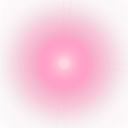
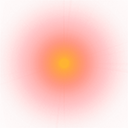
Emitter Added

Changed region(s): [[0.2188, 0.1875, 0.8125, 0.8125]]

diff --git a/PotatoGame/index.html b/PotatoGame/index.html
@@ -13,17 +13,11 @@
     <script>
 
     var config = {
-        type: Phaser.AUTO,
-        //width: window.innerWidth-30, //1200
-        //height: window.innerHeight-30, //700
         width: window.innerHeight-30, //1200
         height: window.innerHeight-30, //700
         scale: {autoCenter: Phaser.Scale.CENTER_BOTH},
         physics: {
             default: 'arcade',
-            //arcade: {
-           //     debug: true
-           // }
         },
 
         scene: {
@@ -31,8 +25,6 @@
             create: create,
            update: update,
         }
-        //scene: [SceneC]
-
     };
 
     class Player extends Phaser.Physics.Arcade.Sprite
@@ -83,6 +75,7 @@
       }
     }
 
+    //Create game obj
     var game = new Phaser.Game(config);
 
     //Game Objects
@@ -93,21 +86,24 @@
     var checkpoints = [];
     var timer;
     var timerText;
+
     //Keyboard controls
     var cursors;
     var keys;
     var space;
-    var LavaPlatform
-    var camera
-    var potato
+    var LavaPlatform;
+    var camera;
+    var potato;
 
-    var potatoPlayer1
-    var potatoPlayer2
-    var globalThis
-    var mainmenu
-    var GameOver
+    //Potato storage
+    var potatoPlayer1;
+    var potatoPlayer2;
 
-    var gameStart = false
+    //Menu requisites
+    var globalThis;
+    var mainmenu;
+    var GameOver;
+    var gameStart = false;
 
     function preload()
     {
@@ -116,7 +112,7 @@
         this.load.image('wall', 'assets/platform.png');
         this.load.image('player', 'assets/wabbit.png');
         this.load.image('lava', 'assets/lava.png');
-        this.load.image('potato', 'assets/pixelated-potato.png')
+        this.load.image('potato', 'assets/pixelated-potato.png');
         this.load.image('collapsing-platform','assets/crumble_platform.png');
         this.load.image('checkFlag', 'assets/checkpoint_flag_solidred.png');
         this.load.image('checkFlag2', 'assets/checkpoint_flag_solidgreen.png');
@@ -126,6 +122,7 @@
         this.load.image('ground', 'assets/ground.png');
         this.load.image('pillar', 'assets/pillar.png');
         this.load.image('gameover', 'assets/gameover_text.png');
+        this.load.image('redParticle', 'assets/red.png');
     }
 
     function create()
@@ -139,13 +136,15 @@
        player = new Player(this, 100, 13945);
        this.physics.add.collider(player, platforms);
        player2 = new Player(this, game.scale.width-100, 13945);
+
+       //Create player collisions
        this.physics.add.collider(player2, platforms);
        this.physics.add.collider(player2, centerplatform);
        this.physics.add.collider(player, centerplatform);
-
        this.physics.add.collider(player,collapsingPlatforms,shakePlatform,checkOneWay,this);
        this.physics.add.collider(player2,collapsingPlatforms,shakePlatform,checkOneWay,this);
 
+       //Refresh player
        player.setScale(1, 1).refreshBody();
        player2.setScale(1, 1).refreshBody();
 
@@ -155,8 +154,6 @@
        potatoPlayer1 = player
        potatoPlayer2 = player2
 
-
-
        //Create initial checkpoints
        let checkpoint1 = new Checkpoint(this, player.x, player.y);
        let checkpoint2 = new Checkpoint(this, player2.x, player2.y);
@@ -165,14 +162,12 @@
        player.lastCheckpoint = checkpoint1;
        player2.lastCheckpoint = checkpoint2;
        
-
        //Set player collision with checkpoints
        this.physics.add.overlap(player, checkpoints, setCheckpoint);
        this.physics.add.overlap(player2, checkpoints, setCheckpoint);
        this.physics.add.overlap(player, potato, pickupPotato);
        this.physics.add.overlap(player2, potato, pickupPotato);
        this.physics.add.overlap(potato, lava, resetPotato);
-
 
        //Set lava plat physics
        this.physics.add.collider(player, LavaPlatform, playerInLava);
@@ -182,10 +177,8 @@
         this.physics.add.collider(player, LavaPlatform, playerInLava);
         this.physics.add.collider(player2, LavaPlatform, playerInLava);
 
-        //Timer
+        //Create timer
         timerText = this.add.text(13800,13800, '', {fontSize: '32px', fill: '#FFFFFF'});
-        //timer = this.time.delayedCall(10000, endOfTimer,[],this);
-
 
         //Set lava and checkpoint collisions
        this.physics.add.overlap(checkpoints, LavaPlatform, removeCheckpoint);
@@ -204,6 +197,21 @@
        this.input.on('pointerdown', startgame, this)
        camera.width = game.scale.width // 1200 
        camera.height = 14000
+
+       //Create emitter
+       var particles = this.add.particles('redParticle');
+       var emitter = particles.createEmitter({
+           speedX: 0,
+           speedY: 10,
+           readial: true,
+           scale: { start: 0.25, end: 0},
+           blendMode: 'ADD',
+           gravityY: 10,
+           lifespan: 200
+       });
+
+       //Assign emitter to potato
+       emitter.startFollow(potato);
     }
        
 
@@ -216,28 +224,26 @@
         menugroup = scene.physics.add.staticGroup();
         collapsingPlatforms = scene.physics.add.staticGroup();
 
-
-
+        //Create repeating sky
         for (let i=1; i < 100; i++) {
             sky = skys.create(game.scale.width/2, i*3000, 'sky');
             sky.setScale(1).refreshBody();
         }
 
-
-
+        //Create walls and pillars
         let wallPlatform = centerplatform.create(game.scale.width/2, 13000, 'pillar');
         wallPlatform.setScale(0.5, 1000).refreshBody(); //Center divider scaling
-
         let wallPlatformRight = platforms.create(game.scale.width+40, 13000, 'wall');
         wallPlatformRight.setScale(0.15, 1000).refreshBody();
-
         let wallPlatformLeft = platforms.create(-40, 13000, 'wall');
         wallPlatformLeft.setScale(0.15, 1000).refreshBody();
 
+        //Weird starting plats
         platforms.create(250, 350, 'platform'); //creates the upper left platform
         platforms.create(950, 500, 'platform'); //creates the bottome right platform
         
-        let platsizeloc =  200
+        let platsizeloc =  200;
+        //Spawn left side platforms randomly
         for (let i=2; i < 91; i++) { // player 1 platforms
             let plateRandom
             if (platsizeloc == 100) {
@@ -259,17 +265,18 @@
               let checkpoint1 = new Checkpoint(scene, platsizeloc, i*150+350 - 45);
               platform1 = platforms.create(platsizeloc, i*150+350, 'platform');
               platform1.setScale(0.5, 0.75).refreshBody();
+              //Add crubmling plat every 7
             } else if (i % 7 == 0) {
                 platform1 = collapsingPlatforms.create(platsizeloc, i*150+350, 'collapsing-platform');
                 platform1.setScale(0.5, 0.75).refreshBody();
                 platform1.body.setSize(110, 30);
+            //Create reg plat
             } else {
                 platform1 = platforms.create(platsizeloc, i*150+350, 'platform');
                 platform1.setScale(0.5, 0.75).refreshBody();
             }
-
-
         }
+        //Spawn right side platforms on same shelf
         platsizeloc =  200
         for (let i=2; i < 91; i++) { // player 2 platforms
             let plateRandom
@@ -292,21 +299,26 @@
                 let checkpoint2 = new Checkpoint(scene, platsizeloc+(game.scale.width/2), i*150+350 - 45);
                 let platform1 = platforms.create(platsizeloc+(game.scale.width/2), i*150+350, 'platform');
                 platform1.setScale(0.5, 0.75).refreshBody();
+            //Add a crumble plat every 7
             } else if (i % 7 == 0){
                 let platform1 = collapsingPlatforms.create(platsizeloc+(game.scale.width/2), i*150+350, 'collapsing-platform');
                 platform1.setScale(0.5, 0.75).refreshBody();
                 platform1.body.setSize(110, 30);
+            //Add a regular plat
             } else {
                 let platform1 = platforms.create(platsizeloc+(game.scale.width/2), i*150+350, 'platform');
                 platform1.setScale(0.5, 0.75).refreshBody();
             }
         }
+
+        //Handle menu functions
         mainmenu = skys.create(game.config.height/2, game.config.height/2, 'title');
         mainmenuClick = skys.create(game.config.height/2, game.config.height/2, 'start');
         mainmenuClick.setScale(02, 2).refreshBody();
        mainmenu.displayWidth=game.config.height;
        mainmenu.displayHeight=game.config.height;
 
+       //Handle game floor
         let basePlatform = platforms.create(game.scale.width/2, 14000, 'platform');
         basePlatform.setScale(10, 1).refreshBody(); //scales the base platform in the x axis to cover the entire floor
         LavaPlatform = lava.create(game.scale.width/2, 15000, 'lava');
@@ -483,7 +495,6 @@
             potato.PotatolastOwner =  potatoPlayer1
             potato.setVelocityY(-400)
             potato.setVelocityX(Math.abs(potatoPlayer1.x-potatoPlayer2.x)*2)
-            //potato.setVelocityX(1000)
             potato.potatoOwner = -2
             globalThis.time.delayedCall(300, potatoFix, [], this);
         }
@@ -493,7 +504,6 @@
         if (potato.potatoOwner == potatoPlayer2) {
             potato.PotatolastOwner =  potatoPlayer2
             potato.setVelocityY(-400)
-            //potato.setVelocityX(-1000)
             potato.setVelocityX(Math.abs(potatoPlayer1.x-potatoPlayer2.x)*-2)
             potato.potatoOwner = -2
             globalThis.time.delayedCall(300, potatoFix, [], this);
@@ -502,7 +512,6 @@
 
     function startgame(event) {
         if (!gameStart) {
-            //mainmenu.enableBody(false, mainmenu.x, mainmenu.y, true, true)
             timer = this.time.delayedCall(10000, endOfTimer,[],this);
             mainmenu.disableBody(true, true);
             mainmenuClick.disableBody(true, true);
@@ -549,7 +558,7 @@
             player.disableBody(true, true);
             player.isAlive = false;
         }
-      }//else would be game over, to be added here later
+      }
     }
 
     function removeCheckpoint(checkpoint){
